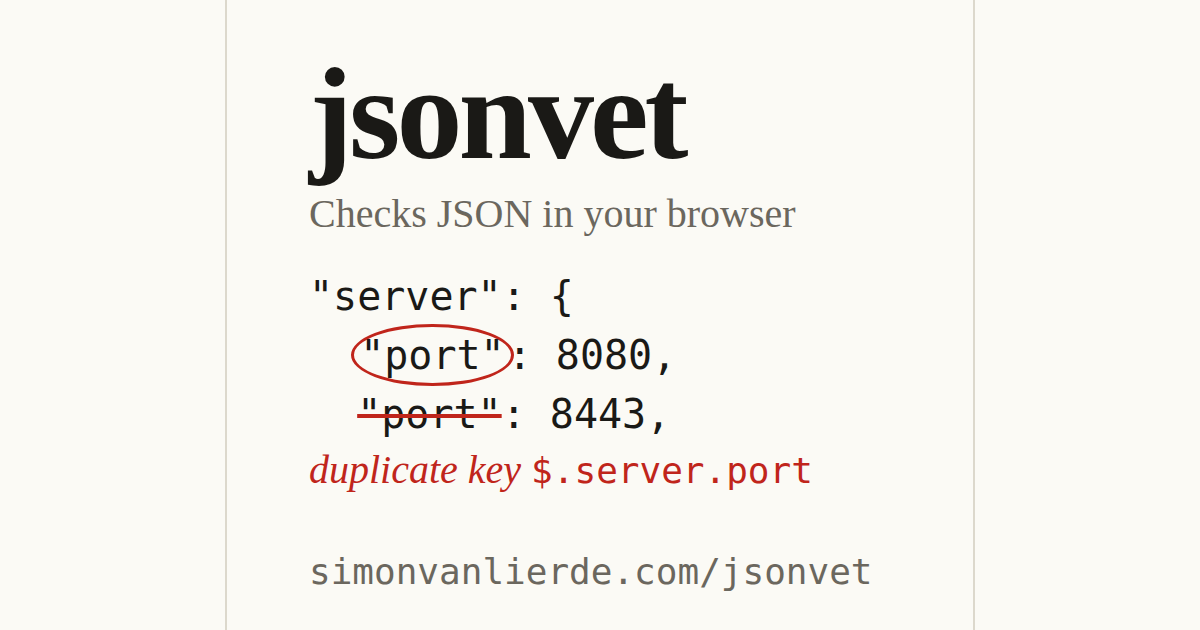
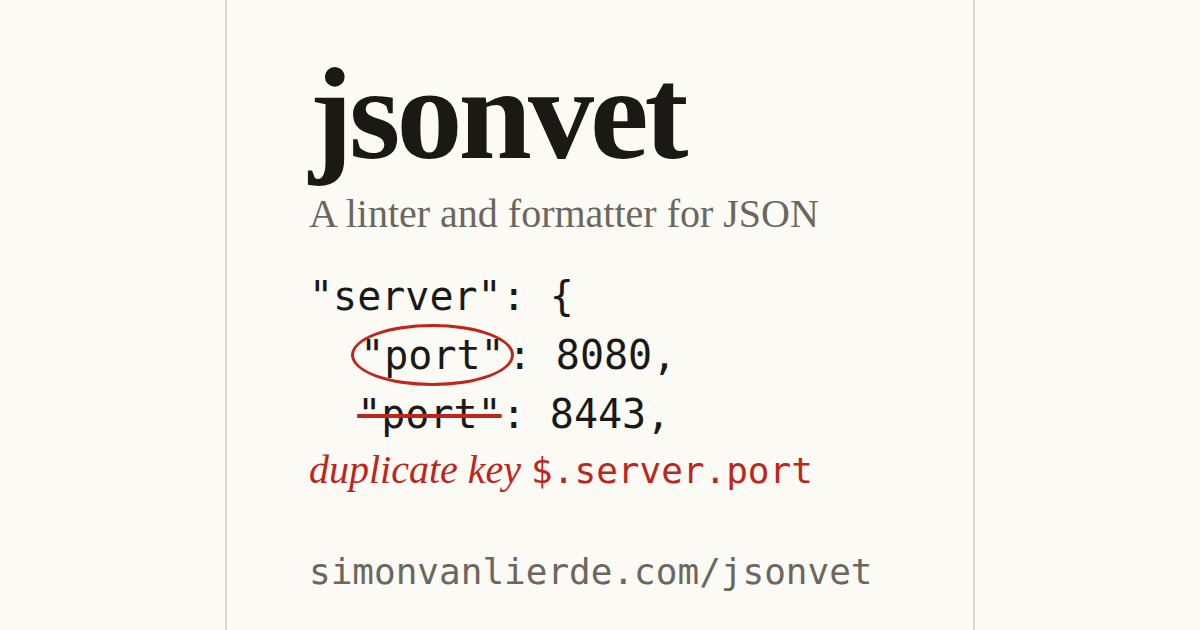
fix(playground): describe the tool, not the page, on the social card
The card is shared for the whole project, CLI and hook included, so its
line now reads "A linter and formatter for JSON", as the README opens.

Changed region(s): [[0.2467, 0.3016, 0.6783, 0.3619]]

diff --git a/docs/og-card.html b/docs/og-card.html
@@ -30,7 +30,7 @@
 <body>
 <main>
   <h1>jsonvet</h1>
-  <p class="job">Checks JSON in your browser</p>
+  <p class="job">A linter and formatter for JSON</p>
   <pre>"server": {
   <span class="ring">"port"</span>: 8080,
   <span class="cut">"port"</span>: 8443,</pre>
